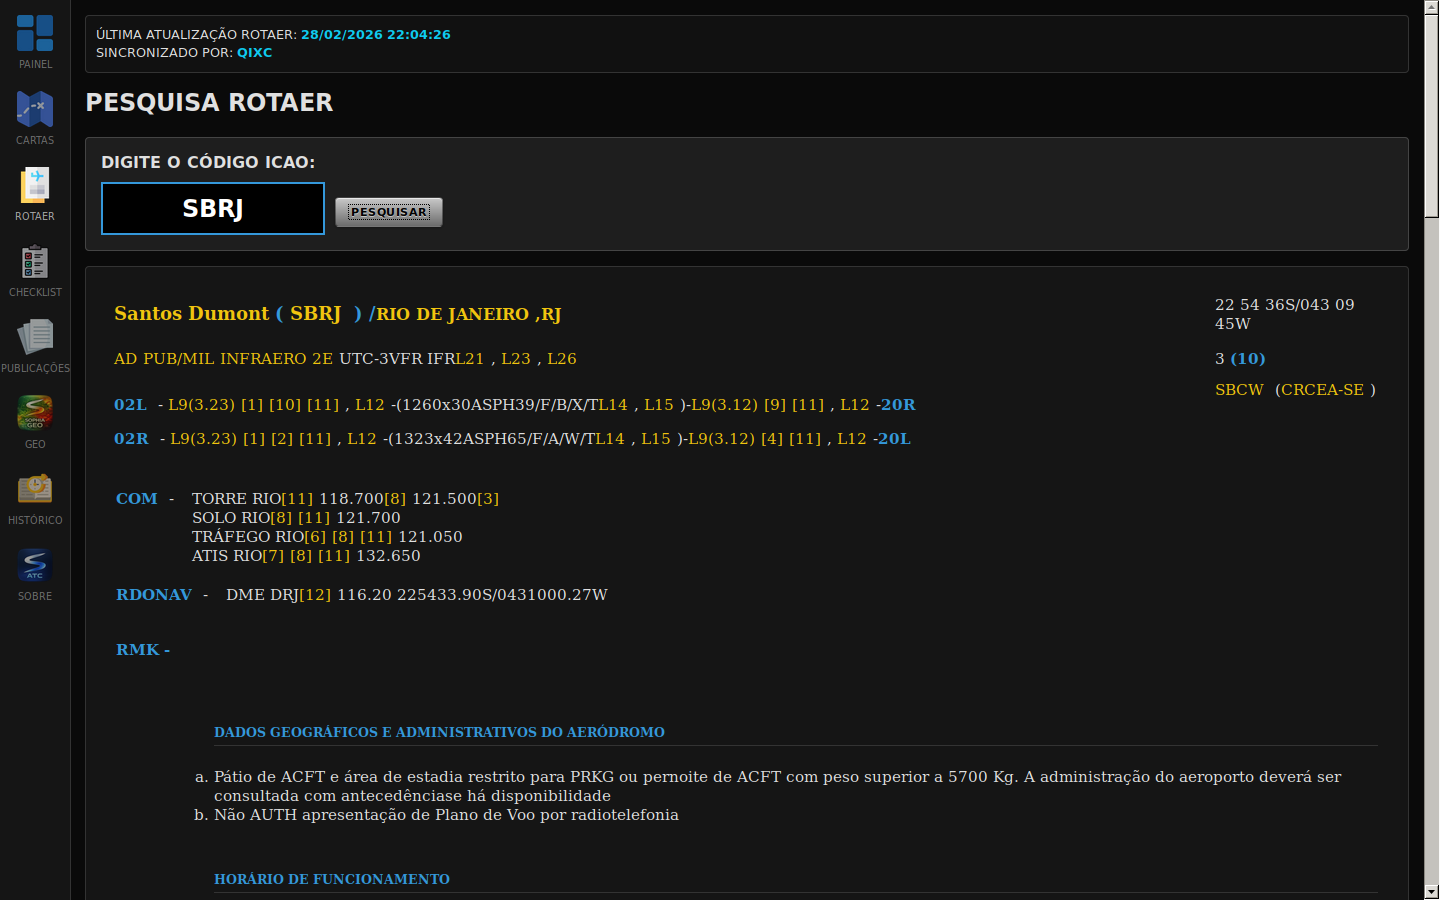
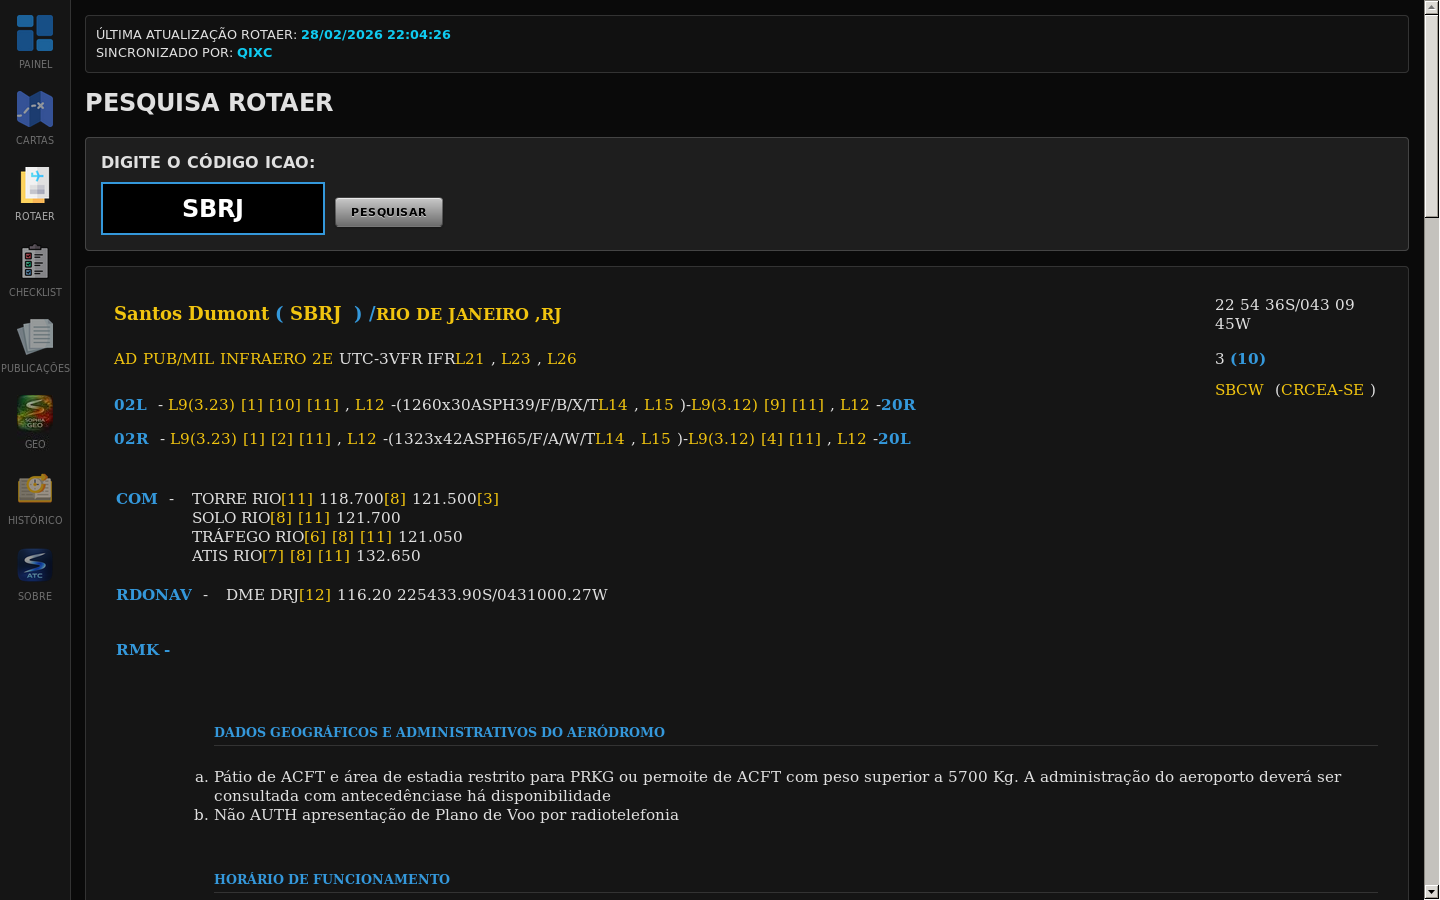
Atualiza página SOPHIA APP

diff --git a/sophia-app.html b/sophia-app.html
@@ -5,7 +5,7 @@
     <meta name="viewport" content="width=device-width, initial-scale=1.0">
     <link rel="icon" href="img/sophia-app.png">
     <title>SOPHIA APP | Sistema para Controle de Aproximação</title>
-    <meta name="description" content="Conheça o SOPHIA APP: sistema avançado de controle de aproximação com integração meteorológica, alertas e consciência situacional em tempo real.">
+    <meta name="description" content="Conheça o SOPHIA APP: sistema para controle de aproximação com informações aeronáuticas offline, cartas de procedimentos, meteorologia integrada e alertas operacionais.">
     <script src="https://cdn.tailwindcss.com"></script>
     <link href="https://cdnjs.cloudflare.com/ajax/libs/font-awesome/6.7.2/css/all.min.css" rel="stylesheet">
     <style>
@@ -376,6 +376,91 @@
                         </button>
                     </div>
                 </div>
+            </div>
+        </div>
+    </section>
+
+    <section id="informacao-aeronautica" class="py-24 bg-slate-900/30 overflow-hidden">
+        <div class="max-w-7xl mx-auto px-4 sm:px-6 lg:px-8">
+            <div class="max-w-4xl mb-14">
+                <span class="mono text-[10px] uppercase tracking-[0.3em] text-sky-400">Acervo operacional offline</span>
+                <h2 class="text-4xl font-bold mt-4 mb-5">Informação aeronáutica <span class="text-emerald-400">sempre ao alcance</span> do controlador</h2>
+                <p class="text-slate-400 text-lg leading-relaxed">
+                    Aos moldes de uma <strong class="text-slate-200">Electronic Flight Bag (EFB)</strong> embarcada, o SOPHIA APP mantém no ambiente operacional um acervo local de informações e publicações aeronáuticas. O conteúdo permanece disponível mesmo sem acesso contínuo a serviços externos, com controle de atualização e alertas de vencimento de publicações e emendas (AMDT).
+                </p>
+            </div>
+
+            <div class="grid grid-cols-1 md:grid-cols-3 gap-6 mb-12">
+                <article class="glass-card rounded-3xl p-7">
+                    <div class="w-12 h-12 rounded-2xl bg-sky-500/10 text-sky-400 flex items-center justify-center text-xl mb-5"><i class="fa-solid fa-database"></i></div>
+                    <h3 class="text-xl font-bold mb-3">ROTAER em base local</h3>
+                    <p class="text-slate-400 leading-relaxed">Consulta aos dados do ROTAER em banco offline, sem depender de acessos constantes ao AISWEB para cada informação requerida.</p>
+                </article>
+                <article class="glass-card rounded-3xl p-7">
+                    <div class="w-12 h-12 rounded-2xl bg-emerald-500/10 text-emerald-400 flex items-center justify-center text-xl mb-5"><i class="fa-solid fa-file-circle-check"></i></div>
+                    <h3 class="text-xl font-bold mb-3">Cartas e publicações</h3>
+                    <p class="text-slate-400 leading-relaxed">Acesso a cartas IAC, STAR, SID, ADC e demais procedimentos, além de manuais e checklists, com indicação de vigência da AMDT.</p>
+                </article>
+                <article class="glass-card rounded-3xl p-7">
+                    <div class="w-12 h-12 rounded-2xl bg-amber-500/10 text-amber-300 flex items-center justify-center text-xl mb-5"><i class="fa-solid fa-clock-rotate-left"></i></div>
+                    <h3 class="text-xl font-bold mb-3">Validade sob controle</h3>
+                    <p class="text-slate-400 leading-relaxed">Alertas antecipam o vencimento de publicações e emendas, apoiando a conferência do ciclo vigente sem interromper o fluxo operacional.</p>
+                </article>
+            </div>
+
+            <div class="grid grid-cols-1 lg:grid-cols-2 gap-8 mb-8">
+                <article class="glass-card rounded-[2rem] overflow-hidden">
+                    <img src="img/prints/sophiapp/sophiaapp_rotaer.png" alt="Pesquisa offline de informações do ROTAER no SOPHIA APP" class="w-full aspect-[8/5] object-cover object-top border-b border-white/5">
+                    <div class="p-7">
+                        <span class="mono text-[10px] uppercase tracking-[0.25em] text-sky-400">Consulta local</span>
+                        <h3 class="text-2xl font-bold mt-3 mb-3">ROTAER sem consulta externa permanente</h3>
+                        <p class="text-slate-400 leading-relaxed">Dados de aeródromo, pistas, frequências, auxílios e observações ficam disponíveis no próprio SOPHIA APP para pesquisa rápida pelo código ICAO.</p>
+                    </div>
+                </article>
+                <article class="glass-card rounded-[2rem] overflow-hidden">
+                    <img src="img/prints/sophiapp/sophiaapp_chart1day.png" alt="Carta aeronáutica diurna visualizada no SOPHIA APP" class="w-full aspect-[8/5] object-cover object-center border-b border-white/5">
+                    <div class="p-7">
+                        <span class="mono text-[10px] uppercase tracking-[0.25em] text-emerald-400">Cartas aeronáuticas</span>
+                        <h3 class="text-2xl font-bold mt-3 mb-3">Procedimentos disponíveis na posição</h3>
+                        <p class="text-slate-400 leading-relaxed">A visualização integrada reúne as cartas necessárias à operação, com leitura em tela cheia e acesso organizado por aeródromo e categoria.</p>
+                    </div>
+                </article>
+            </div>
+
+            <div class="grid grid-cols-1 md:grid-cols-3 gap-6 mb-12">
+                <figure class="glass-card rounded-3xl overflow-hidden">
+                    <img src="img/prints/sophiapp/sophiaapp_chart1type.png" alt="Categorias de cartas aeronáuticas disponíveis no SOPHIA APP" class="w-full aspect-video object-cover object-top border-b border-white/5">
+                    <figcaption class="p-5 text-sm text-slate-300">Categorias de cartas e acompanhamento da vigência da AMDT.</figcaption>
+                </figure>
+                <figure class="glass-card rounded-3xl overflow-hidden">
+                    <img src="img/prints/sophiapp/sophiaapp_publicacoes.png" alt="Biblioteca offline de publicações e manuais do SOPHIA APP" class="w-full aspect-video object-cover object-top border-b border-white/5">
+                    <figcaption class="p-5 text-sm text-slate-300">Publicações e manuais organizados em uma biblioteca operacional.</figcaption>
+                </figure>
+                <figure class="glass-card rounded-3xl overflow-hidden">
+                    <img src="img/prints/sophiapp/sophiaapp_checklist.png" alt="Checklist de passagem de serviço no SOPHIA APP" class="w-full aspect-video object-cover object-top border-b border-white/5">
+                    <figcaption class="p-5 text-sm text-slate-300">Checklists digitais disponíveis diretamente no posto de trabalho.</figcaption>
+                </figure>
+            </div>
+
+            <div class="grid grid-cols-1 lg:grid-cols-2 gap-8">
+                <article class="rounded-[2rem] border border-emerald-500/20 bg-emerald-500/5 p-8">
+                    <div class="flex items-start gap-5">
+                        <div class="w-14 h-14 shrink-0 rounded-2xl bg-emerald-500/15 text-emerald-400 flex items-center justify-center text-2xl"><i class="fa-solid fa-keyboard"></i></div>
+                        <div>
+                            <h3 class="text-2xl font-bold mb-3">Sem KVMs ou hardware adicional</h3>
+                            <p class="text-slate-400 leading-relaxed">A solução dispensa KVMs, chaveadores de teclado e mouse e periféricos dedicados. O controlador permanece focado e utiliza o hardware já presente na operação.</p>
+                        </div>
+                    </div>
+                </article>
+                <article class="rounded-[2rem] border border-sky-500/20 bg-sky-500/5 p-8">
+                    <div class="flex items-start gap-5">
+                        <div class="w-14 h-14 shrink-0 rounded-2xl bg-sky-500/15 text-sky-400 flex items-center justify-center text-2xl"><i class="fa-solid fa-right-left"></i></div>
+                        <div>
+                            <h3 class="text-2xl font-bold mb-3">Continuidade entre PVIAs</h3>
+                            <p class="text-slate-400 leading-relaxed">As informações podem ser intercambiadas entre PVIAs durante a troca de console operacional ou o agrupamento e desagrupamento de setores, reduzindo retrabalho e preservando a continuidade do contexto.</p>
+                        </div>
+                    </div>
+                </article>
             </div>
         </div>
     </section>

diff --git a/en/sophia-app.html b/en/sophia-app.html
@@ -5,7 +5,7 @@
     <meta name="viewport" content="width=device-width, initial-scale=1.0">
     <link rel="icon" href="../img/sophia-app.png">
     <title>SOPHIA APP | Approach Control System</title>
-    <meta name="description" content="Discover SOPHIA APP: an advanced approach control system with meteorological integration, alerts, and real-time situational awareness.">
+    <meta name="description" content="Discover SOPHIA APP: an approach control system with offline aeronautical information, procedure charts, integrated meteorology, and operational alerts.">
     <script src="https://cdn.tailwindcss.com"></script>
     <link href="https://cdnjs.cloudflare.com/ajax/libs/font-awesome/6.7.2/css/all.min.css" rel="stylesheet">
     <style>
@@ -376,6 +376,91 @@
                         </button>
                     </div>
                 </div>
+            </div>
+        </div>
+    </section>
+
+    <section id="aeronautical-information" class="py-24 bg-slate-900/30 overflow-hidden">
+        <div class="max-w-7xl mx-auto px-4 sm:px-6 lg:px-8">
+            <div class="max-w-4xl mb-14">
+                <span class="mono text-[10px] uppercase tracking-[0.3em] text-sky-400">Offline operational library</span>
+                <h2 class="text-4xl font-bold mt-4 mb-5">Aeronautical information <span class="text-emerald-400">always within reach</span> of the controller</h2>
+                <p class="text-slate-400 text-lg leading-relaxed">
+                    Following the concept of an onboard <strong class="text-slate-200">Electronic Flight Bag (EFB)</strong>, SOPHIA APP keeps a local library of aeronautical information and publications in the operational environment. Content remains available without continuous access to external services, with update control and expiration alerts for publications and amendments (AMDT).
+                </p>
+            </div>
+
+            <div class="grid grid-cols-1 md:grid-cols-3 gap-6 mb-12">
+                <article class="glass-card rounded-3xl p-7">
+                    <div class="w-12 h-12 rounded-2xl bg-sky-500/10 text-sky-400 flex items-center justify-center text-xl mb-5"><i class="fa-solid fa-database"></i></div>
+                    <h3 class="text-xl font-bold mb-3">Local ROTAER database</h3>
+                    <p class="text-slate-400 leading-relaxed">Search ROTAER data in an offline database without depending on repeated AISWEB queries for each required item.</p>
+                </article>
+                <article class="glass-card rounded-3xl p-7">
+                    <div class="w-12 h-12 rounded-2xl bg-emerald-500/10 text-emerald-400 flex items-center justify-center text-xl mb-5"><i class="fa-solid fa-file-circle-check"></i></div>
+                    <h3 class="text-xl font-bold mb-3">Charts and publications</h3>
+                    <p class="text-slate-400 leading-relaxed">Access IAC, STAR, SID, ADC, and other procedure charts, as well as manuals and checklists, with AMDT validity status.</p>
+                </article>
+                <article class="glass-card rounded-3xl p-7">
+                    <div class="w-12 h-12 rounded-2xl bg-amber-500/10 text-amber-300 flex items-center justify-center text-xl mb-5"><i class="fa-solid fa-clock-rotate-left"></i></div>
+                    <h3 class="text-xl font-bold mb-3">Validity under control</h3>
+                    <p class="text-slate-400 leading-relaxed">Alerts anticipate publication and amendment expiration, supporting current-cycle checks without interrupting the operational flow.</p>
+                </article>
+            </div>
+
+            <div class="grid grid-cols-1 lg:grid-cols-2 gap-8 mb-8">
+                <article class="glass-card rounded-[2rem] overflow-hidden">
+                    <img src="../img/prints/sophiapp/sophiaapp_rotaer.png" alt="Offline ROTAER information search in SOPHIA APP" class="w-full aspect-[8/5] object-cover object-top border-b border-white/5">
+                    <div class="p-7">
+                        <span class="mono text-[10px] uppercase tracking-[0.25em] text-sky-400">Local search</span>
+                        <h3 class="text-2xl font-bold mt-3 mb-3">ROTAER without permanent external queries</h3>
+                        <p class="text-slate-400 leading-relaxed">Aerodrome, runway, frequency, navigation aid, and remark data are available within SOPHIA APP for quick searches by ICAO code.</p>
+                    </div>
+                </article>
+                <article class="glass-card rounded-[2rem] overflow-hidden">
+                    <img src="../img/prints/sophiapp/sophiaapp_chart1day.png" alt="Daytime aeronautical chart displayed in SOPHIA APP" class="w-full aspect-[8/5] object-cover object-center border-b border-white/5">
+                    <div class="p-7">
+                        <span class="mono text-[10px] uppercase tracking-[0.25em] text-emerald-400">Aeronautical charts</span>
+                        <h3 class="text-2xl font-bold mt-3 mb-3">Procedures available at the position</h3>
+                        <p class="text-slate-400 leading-relaxed">The integrated viewer brings together the charts required for the operation, with full-screen reading and access organized by aerodrome and category.</p>
+                    </div>
+                </article>
+            </div>
+
+            <div class="grid grid-cols-1 md:grid-cols-3 gap-6 mb-12">
+                <figure class="glass-card rounded-3xl overflow-hidden">
+                    <img src="../img/prints/sophiapp/sophiaapp_chart1type.png" alt="Aeronautical chart categories available in SOPHIA APP" class="w-full aspect-video object-cover object-top border-b border-white/5">
+                    <figcaption class="p-5 text-sm text-slate-300">Chart categories and AMDT validity monitoring.</figcaption>
+                </figure>
+                <figure class="glass-card rounded-3xl overflow-hidden">
+                    <img src="../img/prints/sophiapp/sophiaapp_publicacoes.png" alt="SOPHIA APP offline publications and manuals library" class="w-full aspect-video object-cover object-top border-b border-white/5">
+                    <figcaption class="p-5 text-sm text-slate-300">Publications and manuals organized into an operational library.</figcaption>
+                </figure>
+                <figure class="glass-card rounded-3xl overflow-hidden">
+                    <img src="../img/prints/sophiapp/sophiaapp_checklist.png" alt="Service handover checklist in SOPHIA APP" class="w-full aspect-video object-cover object-top border-b border-white/5">
+                    <figcaption class="p-5 text-sm text-slate-300">Digital checklists available directly at the workstation.</figcaption>
+                </figure>
+            </div>
+
+            <div class="grid grid-cols-1 lg:grid-cols-2 gap-8">
+                <article class="rounded-[2rem] border border-emerald-500/20 bg-emerald-500/5 p-8">
+                    <div class="flex items-start gap-5">
+                        <div class="w-14 h-14 shrink-0 rounded-2xl bg-emerald-500/15 text-emerald-400 flex items-center justify-center text-2xl"><i class="fa-solid fa-keyboard"></i></div>
+                        <div>
+                            <h3 class="text-2xl font-bold mb-3">No KVMs or additional hardware</h3>
+                            <p class="text-slate-400 leading-relaxed">The solution does not require KVMs, keyboard and mouse switches, or dedicated peripherals. The controller stays focused while using the hardware already present in the operation.</p>
+                        </div>
+                    </div>
+                </article>
+                <article class="rounded-[2rem] border border-sky-500/20 bg-sky-500/5 p-8">
+                    <div class="flex items-start gap-5">
+                        <div class="w-14 h-14 shrink-0 rounded-2xl bg-sky-500/15 text-sky-400 flex items-center justify-center text-2xl"><i class="fa-solid fa-right-left"></i></div>
+                        <div>
+                            <h3 class="text-2xl font-bold mb-3">Continuity across operational positions</h3>
+                            <p class="text-slate-400 leading-relaxed">Information can be exchanged between PVIAs when changing operational consoles or during sector grouping and splitting, reducing rework while preserving contextual continuity.</p>
+                        </div>
+                    </div>
+                </article>
             </div>
         </div>
     </section>
